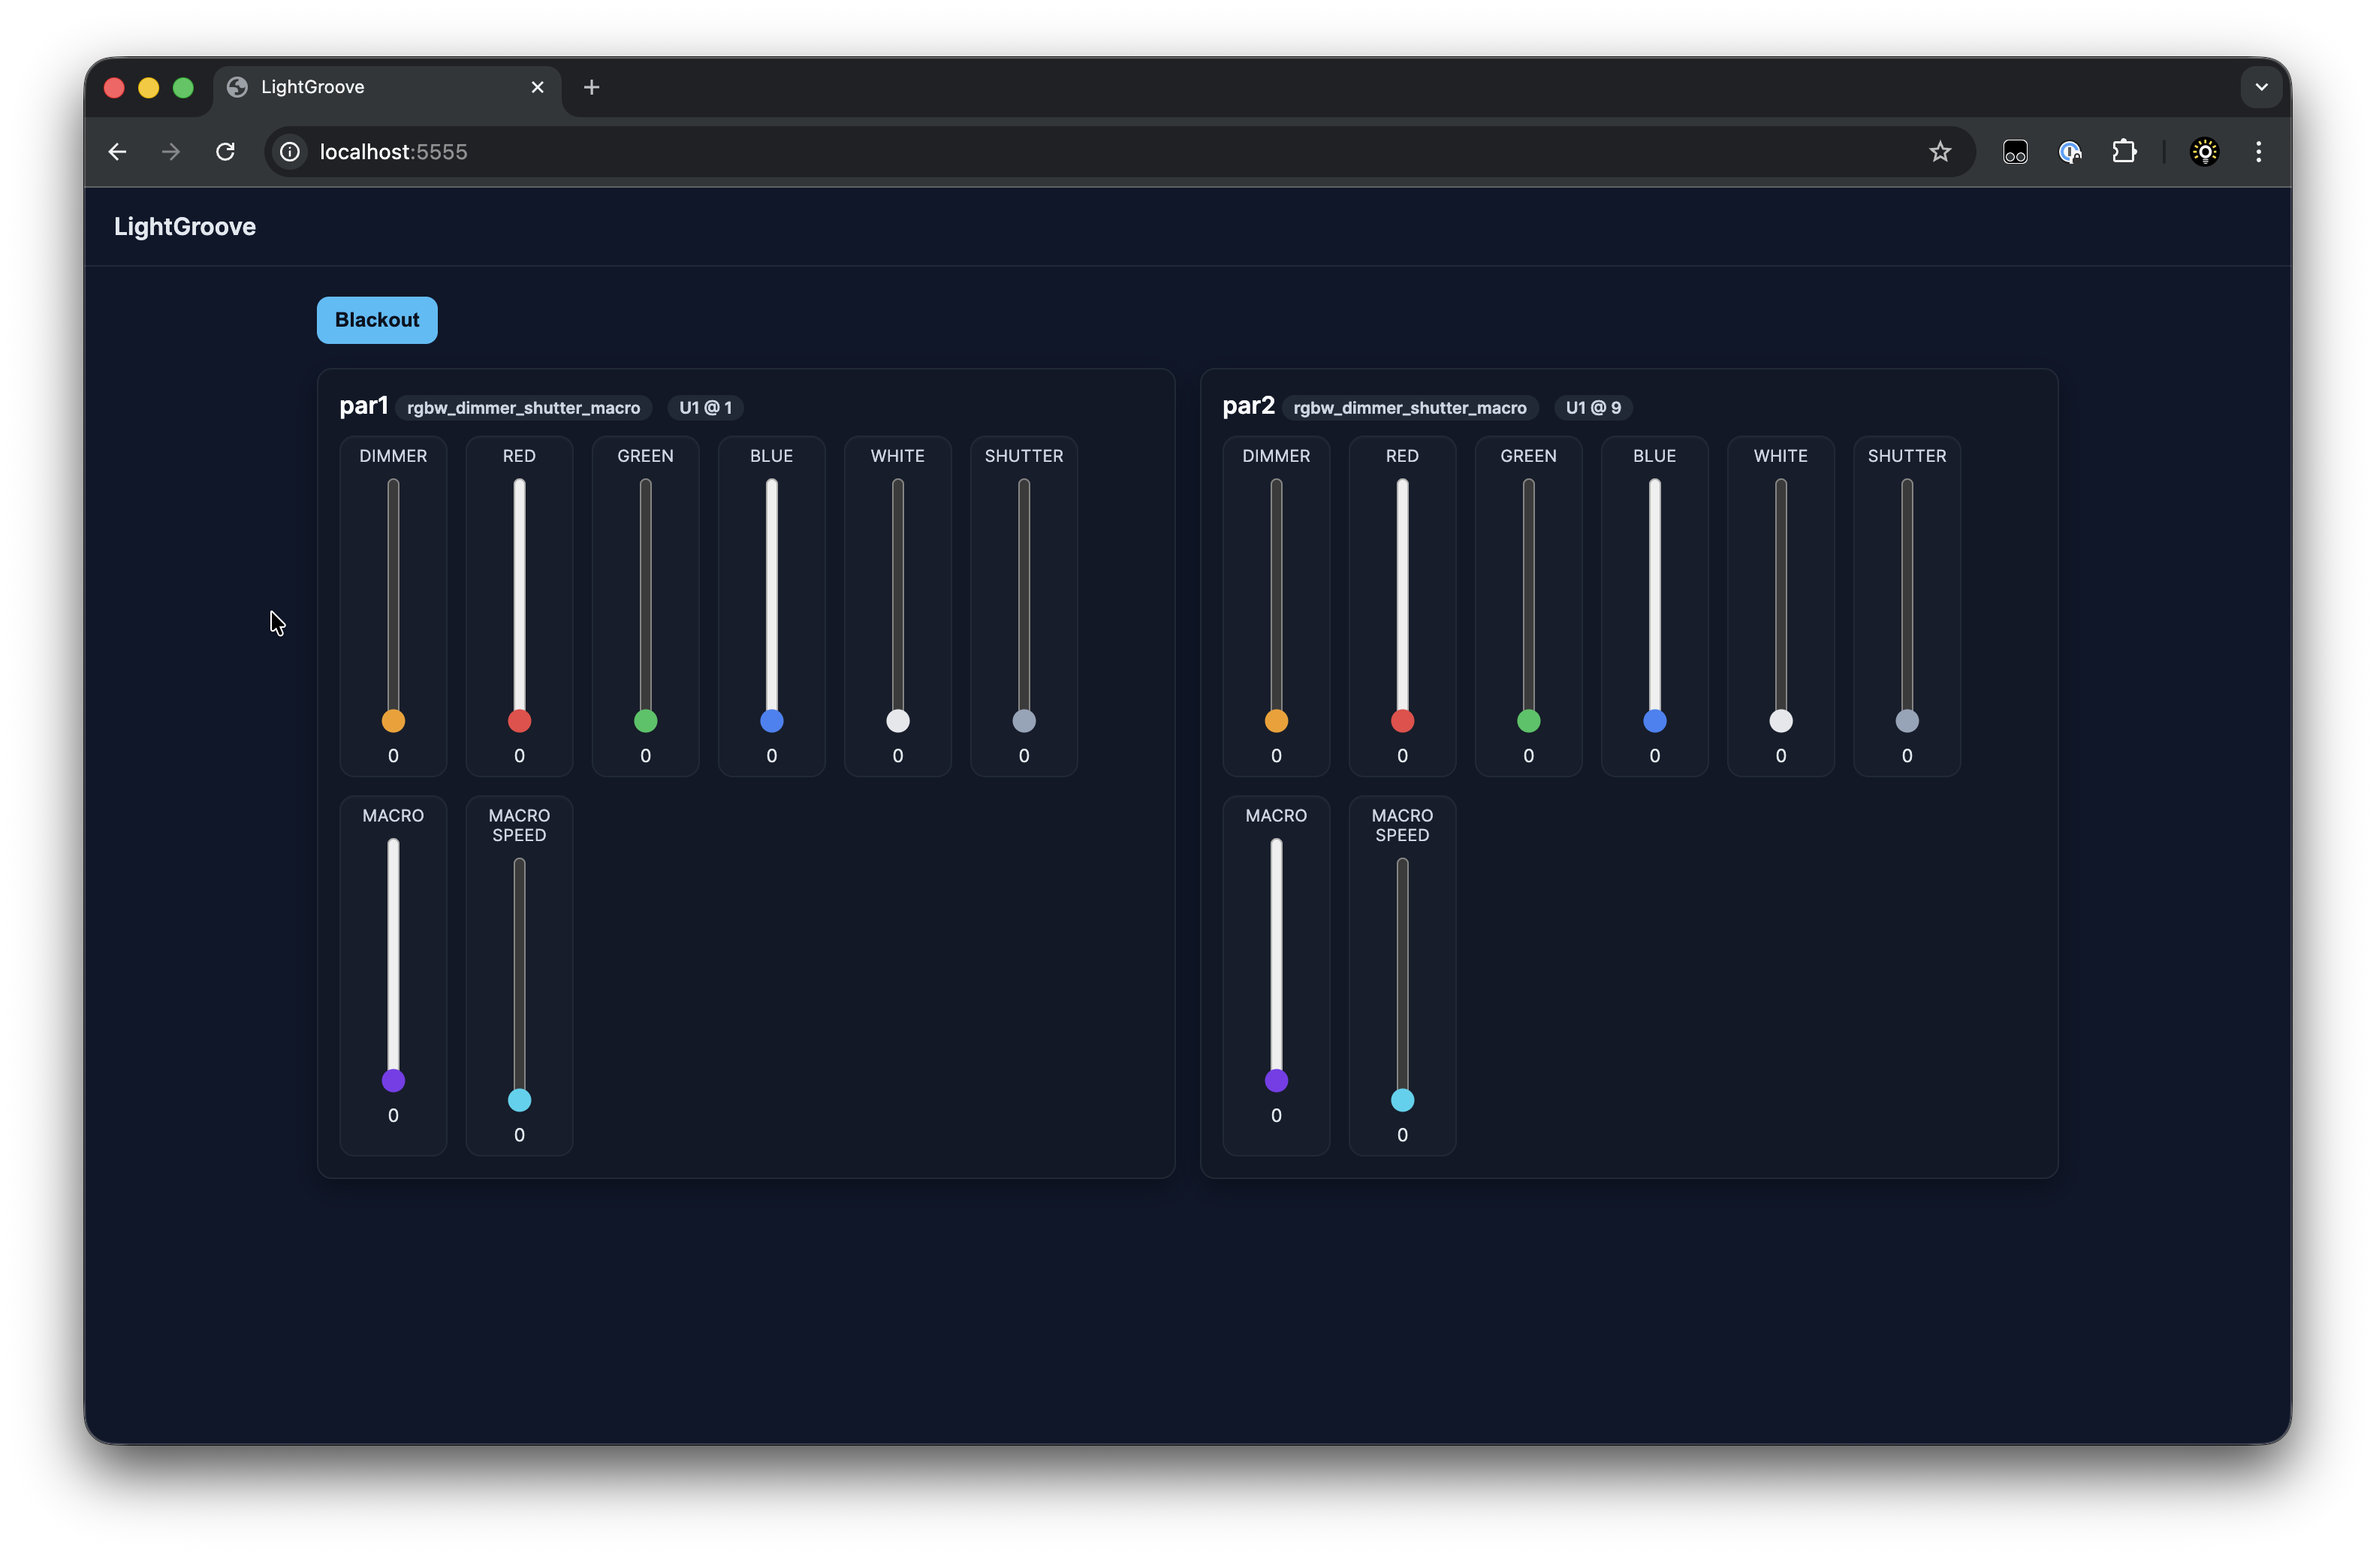
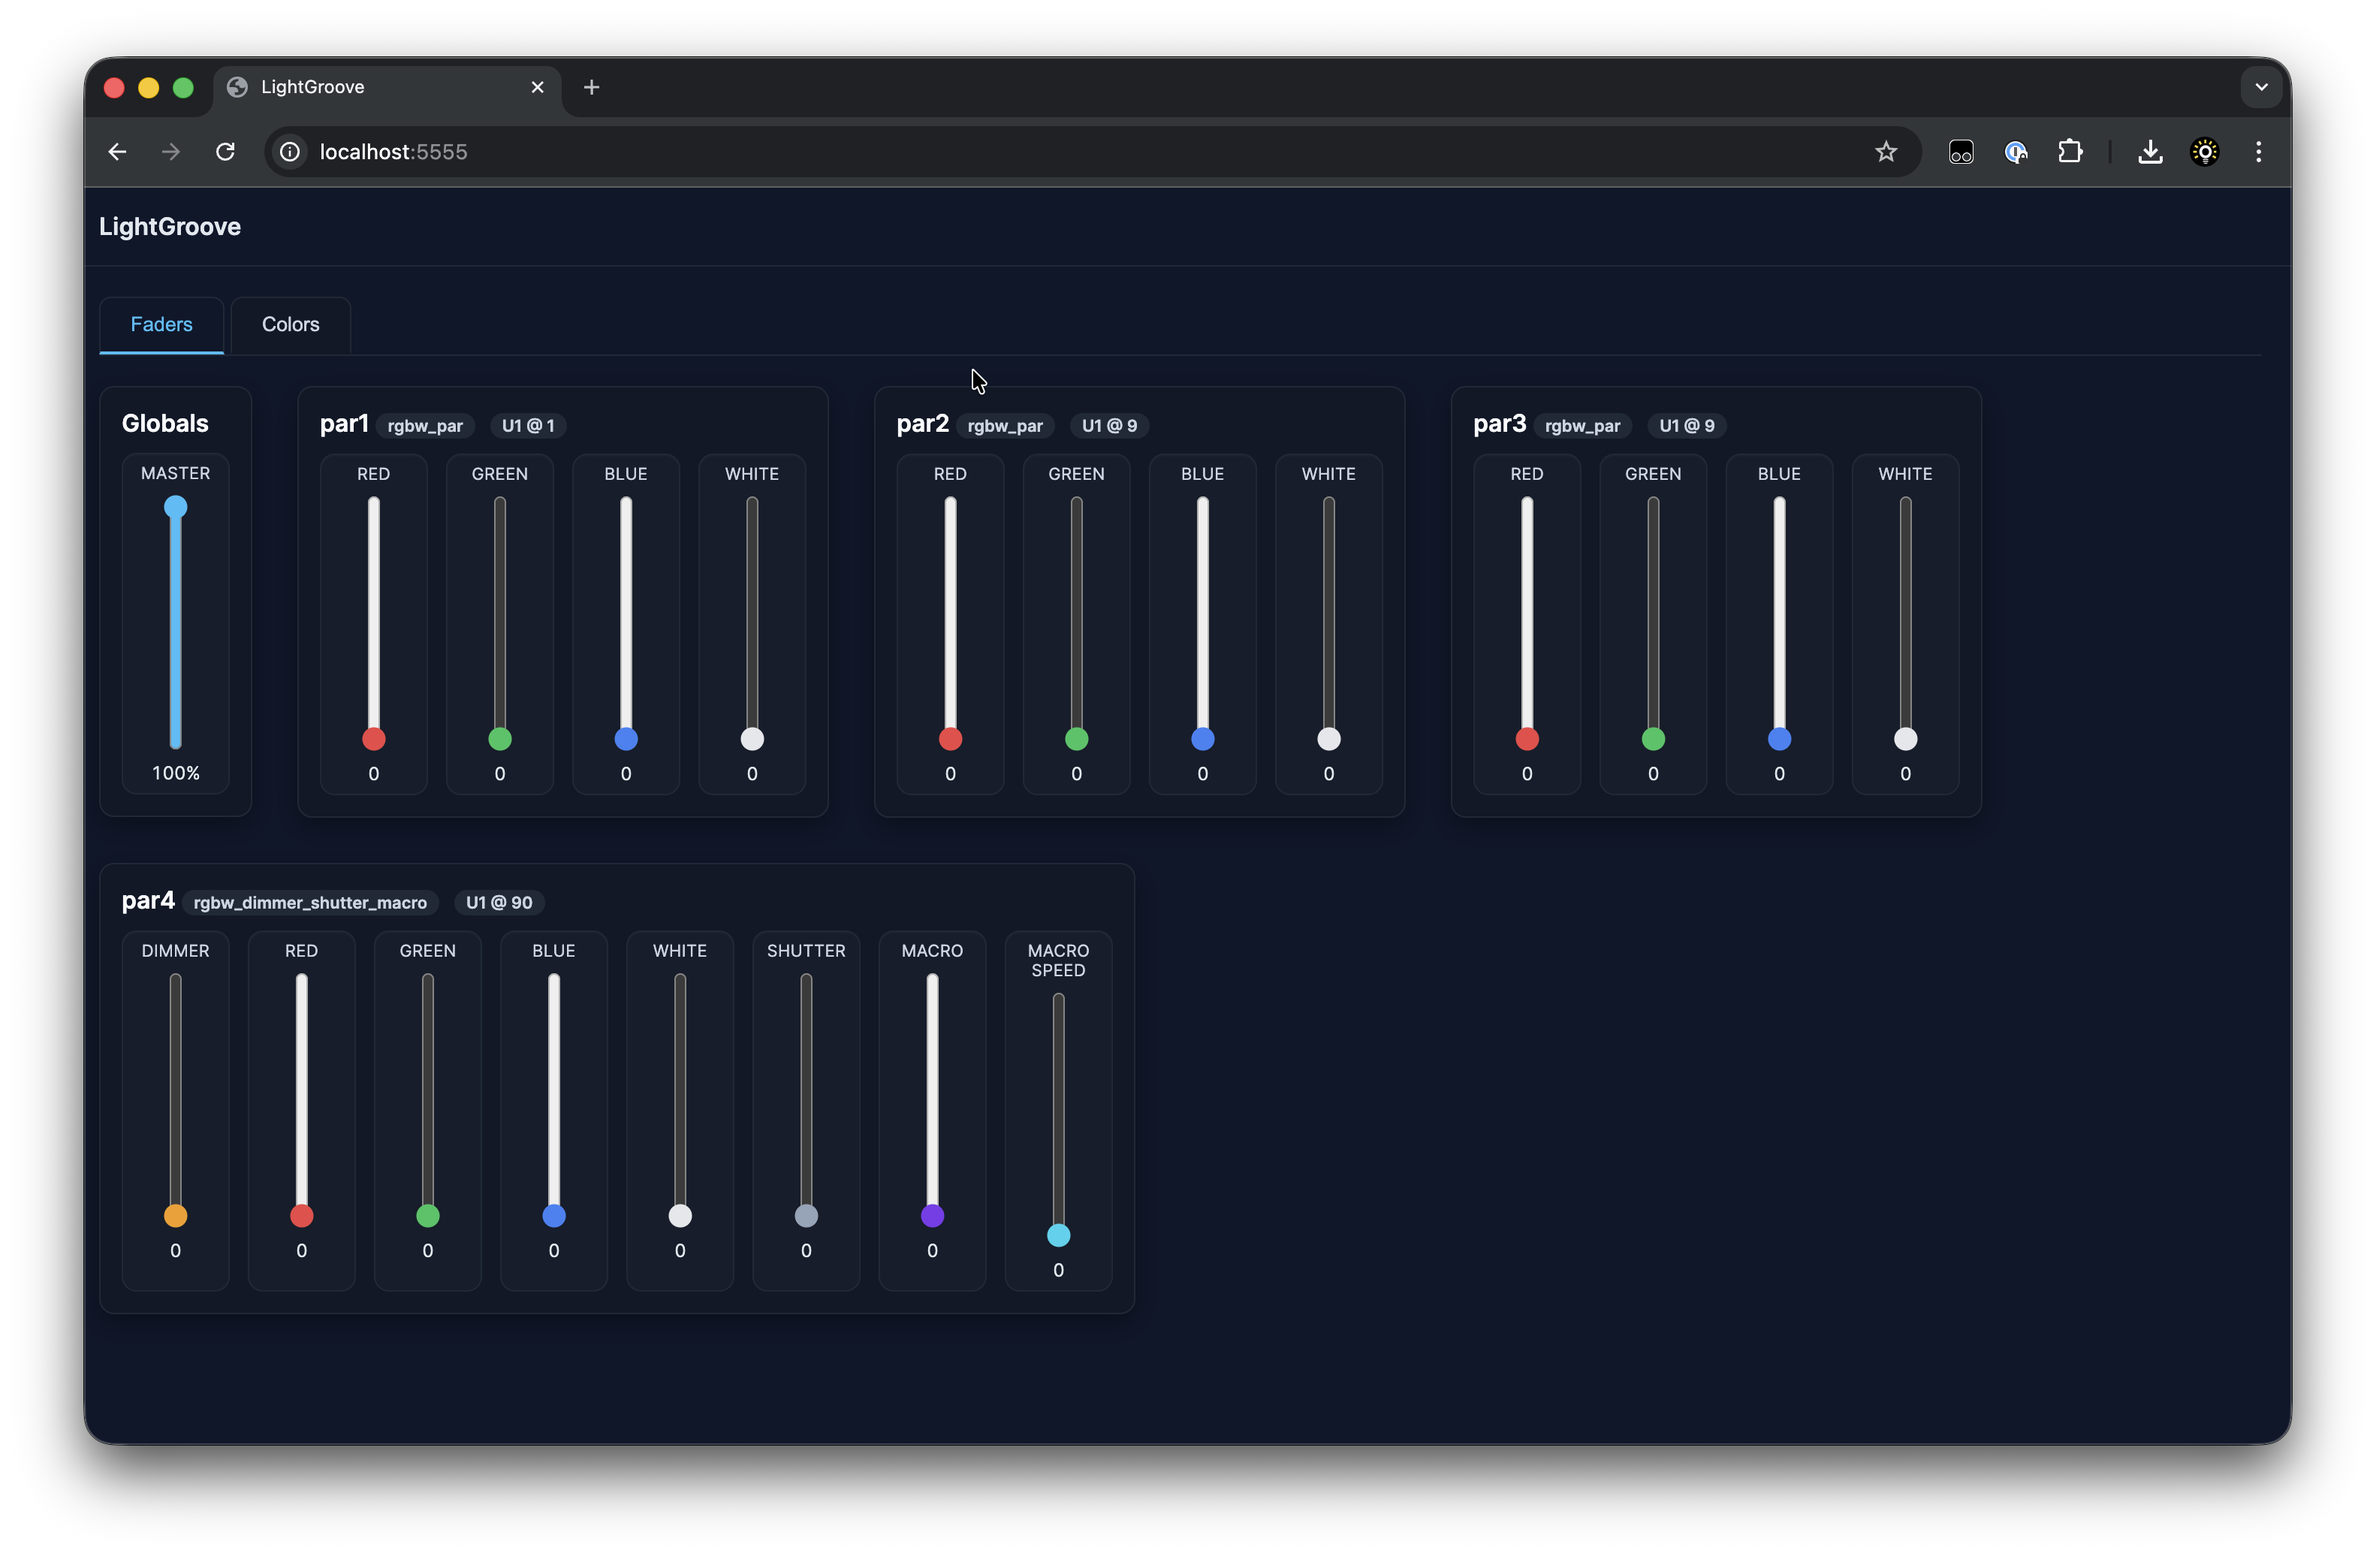
Added new screenshots

diff --git a/README.md b/README.md
@@ -13,9 +13,10 @@ DMX controller with a simple web UI. Outputs ArtNet/virtual DMX and renders per-
 - **Colors Tab**: Quick color preset buttons (Red, Green, Blue, Cyan, Magenta, Yellow, White, Orange, Purple) that apply to all fixtures simultaneously.
 - Tab navigation with styled buttons allows quick switching between fader control and color presets.
 - Left-aligned layout maximizes screen space utilization.
-- Screenshot:
+- Screenshots:
 
 ![UI Faders](img/screenshot_faders.png)
+![UI Colors](img/screenshot_colors.png)
 
 ## Install (macOS via Homebrew)
 ```bash
